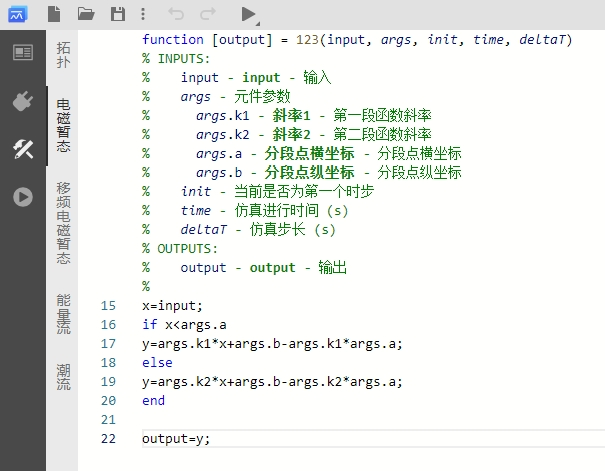
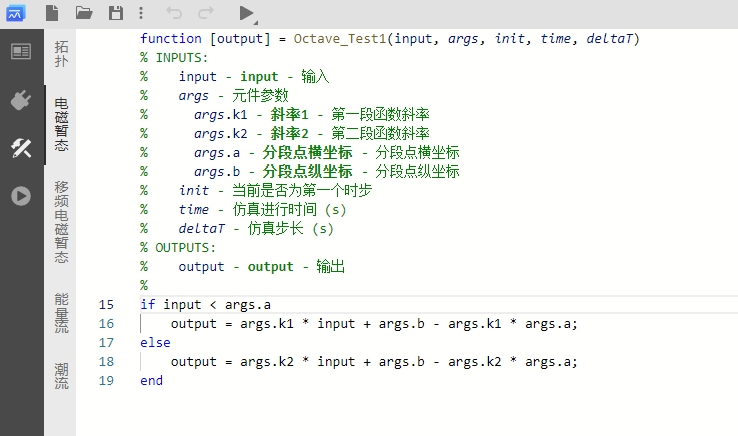
docs: 编写Python元件文档
Former-commit-id: a392a01986c4eb663cc59e6ec6cc816196d420c2

Changed region(s): [[0.0, 0.0, 0.9521, 1.0], [0.5058, 0.5367, 0.5653, 0.5963], [0.238, 0.9243, 0.357, 0.9541]]

diff --git a/docs/docs/software/emtlab/emtp-calc/self-config/python/index.md b/docs/docs/software/emtlab/emtp-calc/self-config/python/index.md
@@ -237,27 +237,116 @@ import TabItem from '@theme/TabItem';
 </TabItem>
 
 <TabItem value="case3" label="案例 3">
-多维输入、多维输出控制元件，外部触发式
+
+**含多维输入、多维输出的控制元件，外部触发**
+
+本案例以一个三相瞬时功率计算元件，展示含多维输入、多维输出且外部触发的 Python 元件的创建和使用方法。
+
+- 新建 Python 元件  
+
+    在 SimStudio 工作台，点击左上角的**新建**，在弹出的窗口中，选择项目模板下的**空白 Python 元件**。点击窗口右下角的新建按钮，即可完成新建。
+
+    ![新建 Python 元件](./9.png "新建 Python 元件")
+
+- 参数与引脚定义
+
+    在**接口**标签页的参数列表定义栏新建参数。
+    
+    本例为外部触发式 Python 元件，因此在参数定义时需要添加键名为 **Trigger** 的**虚拟引脚型**参数，作为外部触发信号输入端口。注意参数类型为**虚拟引脚**，连接类型为**输入**。参数列表如下图所示。
+
+    ![参数列表](./28.png "参数列表")
+
+    在**接口**标签页的引脚列表栏新建引脚。本例中需要添加的引脚为：输入引脚 **V** 和 **I**，注意它们的数据 X 维数为 3，数据 Y 维数为 1；输出引脚 **PQ**，数据 X 维数为 2，数据 Y 维数为 1。可如下图所示新建引脚。
+
+    ![新建引脚 =x350](./29.png "新建引脚")
+
+-  元件图形设计
+    
+    在**接口**标签页的元件图形设计窗口绘制元件图标，并添加引脚，分别与 V、I、PQ 绑定。
+
+    ![绘制元件图形并绑定引脚](./30.png "绘制元件图形并绑定引脚")
+
+- 代码编辑
+
+    切换到**实现**标签页，选择**电磁暂态**子标签，跳转到 Python 元件代码编辑窗口。此时，由于已经定义好元件的参数和引脚，它们的键名会自动识别并列出。
+
+    ![编辑 Python 元件](./31.png "编辑 Python 元件")
+
+    在代码编辑窗口编写三相瞬时功率计算的代码：
+
+    ```
+    import math    
+
+    Ps = V[0]*I[0] + V[1]*I[1] + V[2]*I[2]
+    Qs = (( V[1]*I[2] - I[1]*V[2] ) + ( V[2]*I[0] - I[2]*V[0] ) + ( V[0]*I[1] - I[0]*V[1] ))/(-math.sqrt(3))
+    
+    return [[Ps,Qs]]
+    ```
+    
+    注意代码的缩进，注意变量名称为 `args["键名"]` 的形式。由于输入、输出引脚都为多维，在引用引脚信号的变量时需要注意索引。
+    
+    ![三相瞬时功率计算的 Python 实现](./32.png "三相瞬时功率计算的 Python 实现")
+
+- 元件名称与权限设置
+
+    切换到**总览**标签页，输入元件的名称，并设置元件的**权限**和**元件标签**。
+    
+    ![元件名称与权限设置](./33.png "元件名称与权限设置")
+    
+    保存的元件可以在设置的元件标签中查找，也可通过搜索查找。
+
+至此，一个含多维输入、多维输出并使用外部触发的 Python 元件构建完成。可以新建一个**普通项目**，在对应的**元件标签**中找到该元件，验证其效果。
+
+- 效果验证
+
+    新建一个普通项目，调用 Python 三相瞬时功率计算元件。  
+    
+    在**实现**标签页，添加两个**正弦发生器**分别模拟电压信号和电流信号，电压信号与一个**斜坡发生器**相乘后输入 Python 三相瞬时功率计算元件，模拟电压不断增大的过程。由于 Python 元件的输入和输出引脚都是 3 维，因此还需要添加两个**多路信号合并**元件，将正弦发生器的 3 个 1 维输出合并为 1 个 3 维的输出。添加一个**方波发生器**，其输出作为 Python 元件外部触发的触发信号。
+    
+    构建如下图所示的测试算例。
+    
+    ![构建测试算例](./34.png "构建测试算例")
+
+    各元件的参数、引脚面板设置如下图所示。
+
+    ![元件参数、引脚设置](./35.png "元件参数、引脚设置")
+
+    注意方波发生器的输出引脚填入 **@Trigger**，该信号将作为虚拟输入信号传入 Python 元件的外部触发信号端口，频率设为 10Hz，即每 0.1s 检测到方波的上升沿时调用一次 Python 元件。
+
+    ![配置电磁暂态仿真方案](./36.png "配置电磁暂态仿真方案")
+
+    配置电磁暂态仿真方案和输出通道，运行电磁暂态仿真，得到如下图所示结果。元件输出一个两维的数据，分别是计算得到的瞬时有功 P 和瞬时无功 Q，每 0.1s 计算一次，与设置的 Python 元件外部触发频率一致。
+    
+    ![Python 三相瞬时功率计算元件输出结果](./37.png "Python 三相瞬时功率计算元件输出结果")
+
 </TabItem>
 </Tabs>
 
 
 ## 常见问题
 仿真运行报错："compile python code failed"
+
 :
+    请检查 Python 代码是否存在语法错误。需要注意代码的缩进，并注意变量名称为 `args["键名"]` 的形式。
+
 
 仿真运行报错："python module return type error"
+
 :
+    请检查 return 语句是否存在语法错误，return 返回的值应为列表类型，用 `[]` 表示。
+    
+    若存在多个需要返回的值，使用**逗号**分隔，例如：`return [output1, output2, output3]`，需注意列表中元素的数量应与输出引脚的数量一致。
+
+    当存在多维的输出引脚时，使用**列表嵌套**返回一个多维的值，例如：`return [[output1A, output1B, output1C], output2, output3]`，需注意列表中元素的数量应与输出引脚的维数以及数量对应。
+
 
 仿真运行报错："execute python module failed"
+
 :
-为什么使用 print() 函数没有效果？
-:   暂不支持在前台输出 print() 结果。
+    请根据详细报错信息检查 Python 代码是否存在错误。
 
 
-return
-如果函数没有return语句，它会自动返回None。
-当使用return语句返回多个值时，使用逗号分隔值，而不是使用空格（元组）。
-在函数中使用return语句可以提前结束函数的执行，在使用时要谨慎，确保在需要时才使用它。
-循环中使用return语句，会导致函数在第一次迭代时退出，并不执行完整个循环。
-在使用return语句时，要注意缩进。
+为什么使用 print( ) 函数没有效果？
+
+:
+   目前暂不支持直接输出 `print( )` 的结果。用户可通过添加输出引脚，使用 return 语句输出 Python 元件中需要观测的结果。

diff --git a/docs/docs/software/emtlab/emtp-calc/self-config/octave/index.md b/docs/docs/software/emtlab/emtp-calc/self-config/octave/index.md
@@ -130,13 +130,11 @@ import TabItem from '@theme/TabItem';
     在代码编辑窗口编写可调斜率和分段点的分段函数代码：
 
     ```
-    x=input;
-    if x<args.a
-    y=args.k1*x+args.b-args.k1*args.a;
+    if input < args.a
+        output = args.k1 * input + args.b - args.k1 * args.a;
     else
-    y=args.k2*x+args.b-args.k2*args.a;
+        output = args.k2 * input + args.b - args.k2 * args.a;
     end
-    output=y;
     ```
     
     注意变量名称为 **args.键名**的形式。
@@ -324,7 +322,7 @@ import TabItem from '@theme/TabItem';
 </Tabs>
 
 ## 常见问题
-我同时设置了一个元件的“拓扑”和“电磁暂态”的两种实现方法，为什么“拓扑”中的内容没有正确地生效？
+同时设置了一个元件的“拓扑”和“电磁暂态”的两种实现方法，为什么“拓扑”中的内容没有正确地生效？
 
 :
     需要注意的是，在存在**电磁暂态**标签页的具体实现时，**拓扑**的实现方法将会失效。用户可以右键选择**电磁暂态**的子标签，并点击**删除**按钮，删除 Octave 的元件实现方法，保留**拓扑**实现方法，如下图所示。当然，也可以根据需要，自行选择需要保留的实现方法类型。
@@ -333,12 +331,15 @@ import TabItem from '@theme/TabItem';
 
 为什么带有 Octave 元件的算例运行很慢？
 
-:   对于含有 Octave 元件的算例，在仿真的过程中需要根据 Octave 元件的触发频率调用 Octave 的解释器，导致仿真速度较慢。用户可以根据需求，选用拓扑模块封装等速度更快的方式进行模块构建。
+:   
+    对于含有 Octave 元件的算例，在仿真的过程中需要根据 Octave 元件的触发频率调用 Octave 的解释器，导致仿真速度较慢。用户可以根据需求，选用拓扑模块封装等速度更快的方式进行模块构建。
 
 仿真运行报错："The function belongs to the image package from Octave Forge which seems to not be installed in your system."
 
-:   该报错原因为在代码中存在未识别的函数，目前暂不支持调用外部函数。
+:   
+    该报错原因为在代码中存在未识别的函数，目前暂不支持调用外部函数。
 
 为什么使用 disp( ) 函数没有效果？
 
-:   目前暂不支持直接输出 disp( ) 的结果。用户可通过添加输出引脚，输出 Octave 元件中需要观测的结果。
+:   
+    目前暂不支持直接输出 `disp( )` 的结果。用户可通过添加输出引脚，输出 Octave 元件中需要观测的结果。
